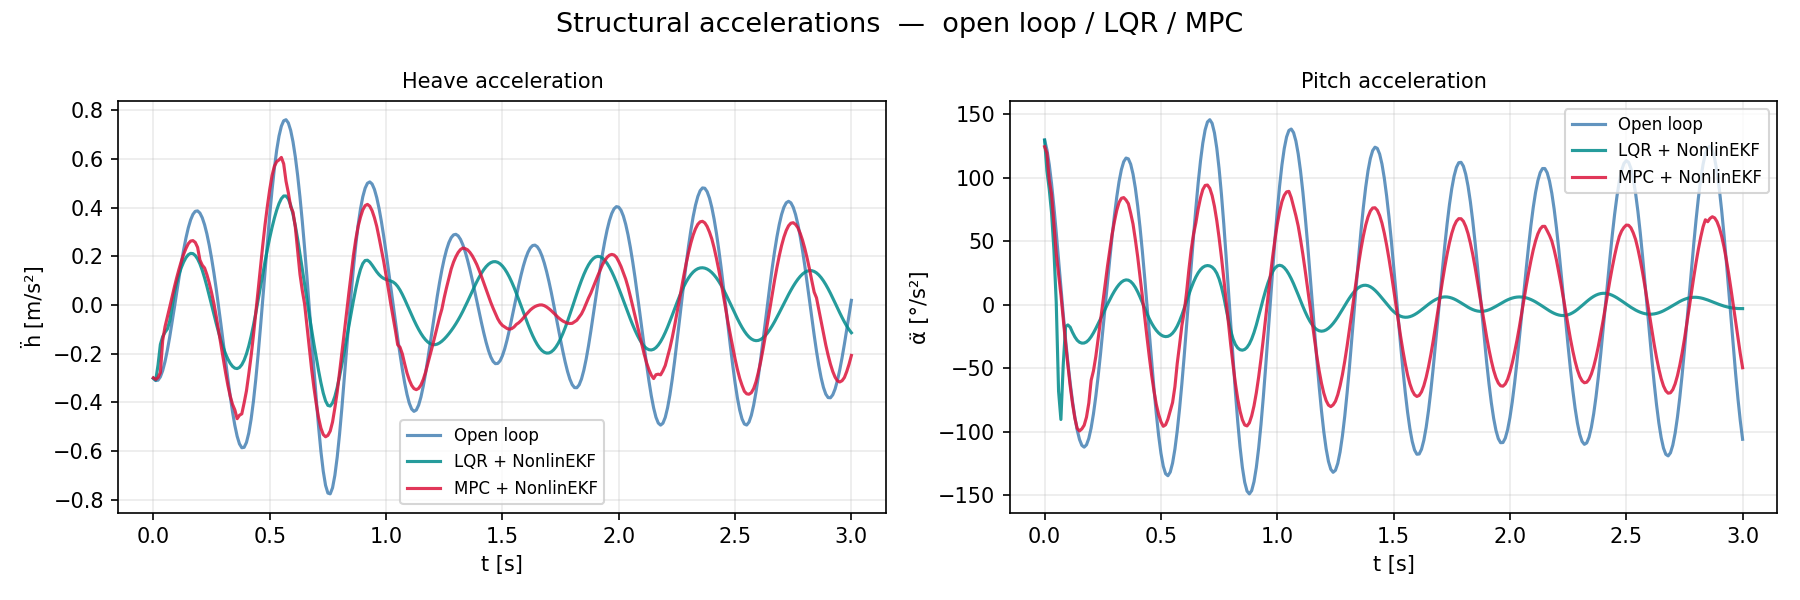
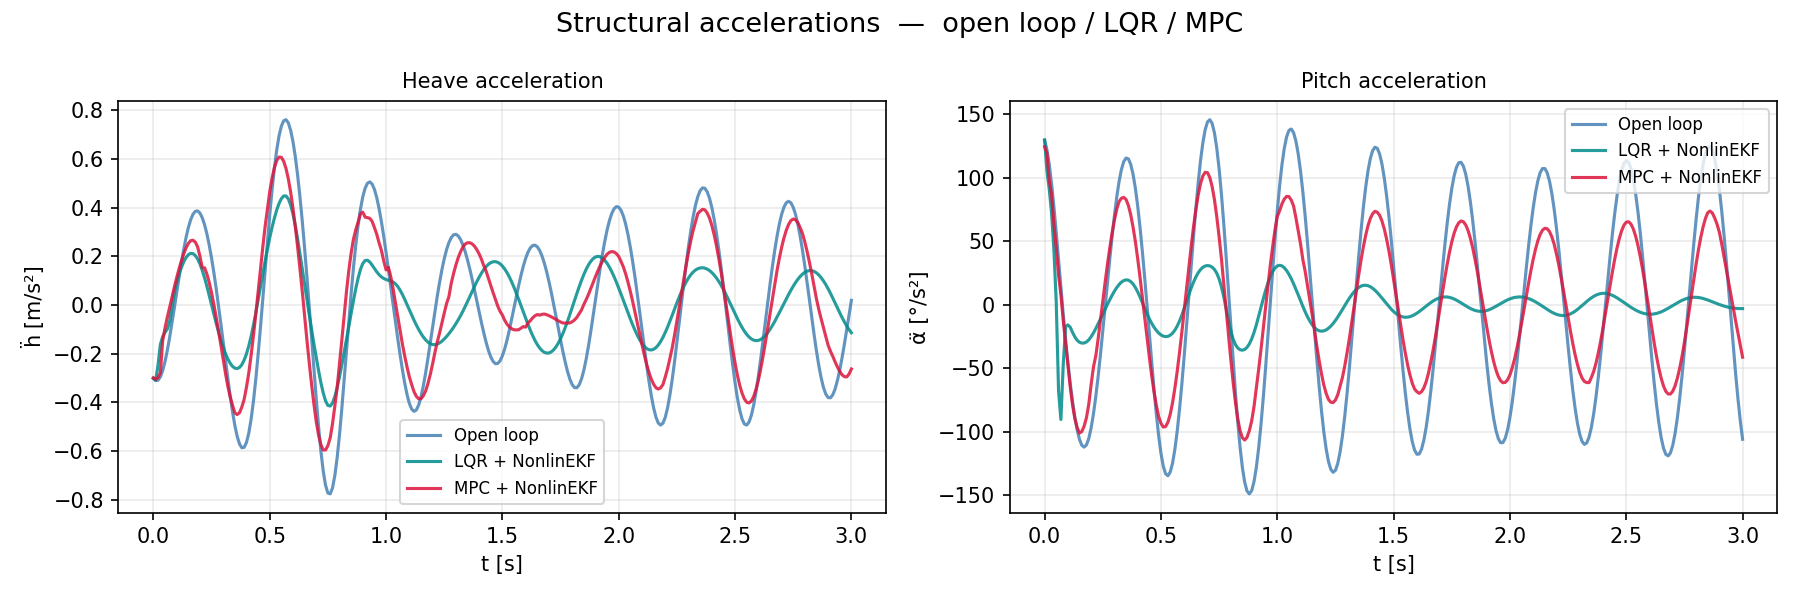
MPC con 2 picchi smussati ma secondo picco ancora piu alto

diff --git a/src/control/mpc.py b/src/control/mpc.py
@@ -275,10 +275,10 @@ def run_mpc_simulation(U_INF, T_END, DT, aero_model, mpc_controller, A_s, B_s,
                 # MPC: build W_gust_seq over horizon, then optimise
                 if observer != 'true_state':
                     W_now  = W_hat_hist[i]
-                    W_prev = W_hat_hist[i - 1] if i > 0 else W_now
-                    dW_dt  = (W_now - W_prev) / DT
+                    # Exponential decay W_{k+j} = W_now * λ_w^j — consistent
+                    # with the EKF model W_{k+1} = λ_w * W_k used by the observer.
                     steps  = np.arange(mpc_controller.N, dtype=np.float64)
-                    W_gust_seq = np.clip(W_now + dW_dt * steps * DT, 0.0, 80.0)
+                    W_gust_seq = W_now * (0.98 ** steps)
                 else:
                     horizon_idx = np.arange(i, min(i + mpc_controller.N, N))
                     W_gust_seq  = W_gust_arr[horizon_idx]
